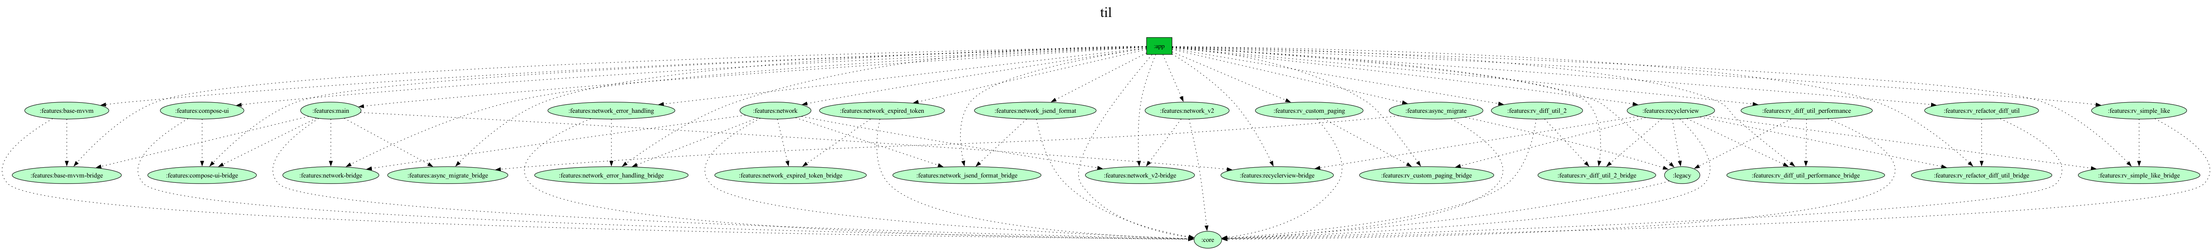
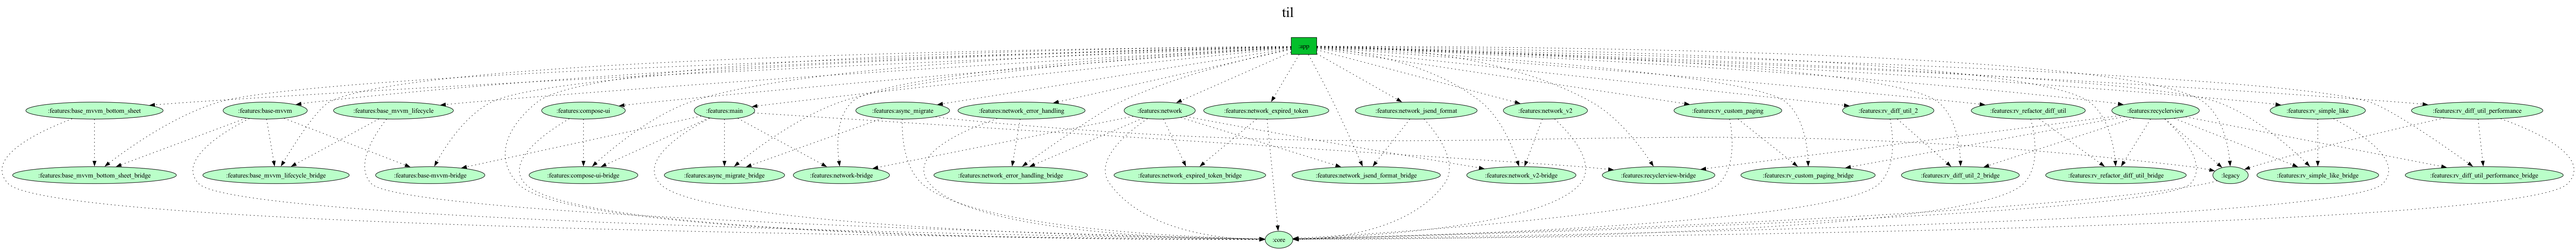
feat: Base MVVM BottomSheet Feature 추가 - BottomSheet FullHeight 함수 추가

diff --git a/core/src/main/java/com/hmju/core/ui/base/BaseSharedBottomSheetDialog.kt b/core/src/main/java/com/hmju/core/ui/base/BaseSharedBottomSheetDialog.kt
@@ -1,5 +1,6 @@
 package com.hmju.core.ui.base
 
+import android.content.DialogInterface
 import android.content.Intent
 import android.os.Bundle
 import android.view.LayoutInflater
@@ -7,12 +8,15 @@ import android.view.View
 import android.view.ViewGroup
 import androidx.annotation.CallSuper
 import androidx.annotation.LayoutRes
+import androidx.core.view.updateLayoutParams
 import androidx.databinding.DataBindingUtil
 import androidx.databinding.ViewDataBinding
 import androidx.fragment.app.FragmentManager
 import androidx.lifecycle.ViewModelProvider
 import androidx.lifecycle.get
 import androidx.lifecycle.viewmodel.CreationExtras
+import com.google.android.material.bottomsheet.BottomSheetBehavior
+import com.google.android.material.bottomsheet.BottomSheetDialog
 import com.google.android.material.bottomsheet.BottomSheetDialogFragment
 import timber.log.Timber
 
@@ -64,9 +68,8 @@ abstract class BaseSharedBottomSheetDialog<T : ViewDataBinding, VM : BottomSheet
             }
         }
 
-        dialog?.setOnDismissListener {
-            dismiss()
-        }
+        dialog?.setOnDismissListener { dismiss() }
+        dialog?.setOnShowListener { onShow(it) }
     }
 
     @CallSuper
@@ -103,6 +106,13 @@ abstract class BaseSharedBottomSheetDialog<T : ViewDataBinding, VM : BottomSheet
     }
 
     /**
+     * BottomSheet Show 상태시 호출되는 함수
+     */
+    @CallSuper
+    open fun onShow(dialogInterface: DialogInterface) {
+    }
+
+    /**
      * Tag 값은 리터널 상수로 처리해야 합니다.
      * @param tag Tag
      */
@@ -126,5 +136,27 @@ abstract class BaseSharedBottomSheetDialog<T : ViewDataBinding, VM : BottomSheet
             defaultViewModelProviderFactory,
             extrasProducer?.invoke() ?: this.defaultViewModelCreationExtras
         ).get()
+    }
+
+    /**
+     * BottomSheet 전체 화면 처리하는 함수
+     *
+     * [setFullHeightBottomSheet] 함수를 사용하면 됩니다.
+     */
+    protected fun setFullHeightBottomSheet(
+        dialogInterface: DialogInterface
+    ): BottomSheetBehavior<View>? {
+        return try {
+            val bottomSheet = dialogInterface as BottomSheetDialog
+            val view = bottomSheet.findViewById<View>(
+                com.google.android.material.R.id.design_bottom_sheet
+            ) as View
+            view.updateLayoutParams<ViewGroup.LayoutParams> {
+                height = ViewGroup.LayoutParams.MATCH_PARENT
+            }
+            BottomSheetBehavior.from(view)
+        } catch (ex: Exception) {
+            null
+        }
     }
 }

diff --git a/core/src/main/java/com/hmju/core/ui/base/BaseBottomSheetDialog.kt b/core/src/main/java/com/hmju/core/ui/base/BaseBottomSheetDialog.kt
@@ -1,5 +1,6 @@
 package com.hmju.core.ui.base
 
+import android.content.DialogInterface
 import android.content.Intent
 import android.os.Bundle
 import android.view.LayoutInflater
@@ -7,12 +8,15 @@ import android.view.View
 import android.view.ViewGroup
 import androidx.annotation.CallSuper
 import androidx.annotation.LayoutRes
+import androidx.core.view.updateLayoutParams
 import androidx.databinding.DataBindingUtil
 import androidx.databinding.ViewDataBinding
 import androidx.fragment.app.FragmentManager
 import androidx.lifecycle.ViewModelProvider
 import androidx.lifecycle.get
 import androidx.lifecycle.viewmodel.CreationExtras
+import com.google.android.material.bottomsheet.BottomSheetBehavior
+import com.google.android.material.bottomsheet.BottomSheetDialog
 import com.google.android.material.bottomsheet.BottomSheetDialogFragment
 import timber.log.Timber
 
@@ -66,6 +70,8 @@ abstract class BaseBottomSheetDialog<T : ViewDataBinding, VM : BottomSheetViewMo
         dialog?.setOnDismissListener {
             dismiss()
         }
+
+        dialog?.setOnShowListener { onShow(it) }
     }
 
     @CallSuper
@@ -101,6 +107,13 @@ abstract class BaseBottomSheetDialog<T : ViewDataBinding, VM : BottomSheetViewMo
     }
 
     /**
+     * BottomSheet Show 상태시 호출되는 함수
+     */
+    @CallSuper
+    open fun onShow(dialogInterface: DialogInterface) {
+    }
+
+    /**
      * Tag 값은 리터널 상수로 처리해야 합니다.
      * @param tag Tag
      */
@@ -124,5 +137,27 @@ abstract class BaseBottomSheetDialog<T : ViewDataBinding, VM : BottomSheetViewMo
             defaultViewModelProviderFactory,
             extrasProducer?.invoke() ?: this.defaultViewModelCreationExtras
         ).get()
+    }
+
+    /**
+     * BottomSheet 전체 화면 처리하는 함수
+     *
+     * [setFullHeightBottomSheet] 함수를 사용하면 됩니다.
+     */
+    protected fun setFullHeightBottomSheet(
+        dialogInterface: DialogInterface
+    ): BottomSheetBehavior<View>? {
+        return try {
+            val bottomSheet = dialogInterface as BottomSheetDialog
+            val view = bottomSheet.findViewById<View>(
+                com.google.android.material.R.id.design_bottom_sheet
+            ) as View
+            view.updateLayoutParams<ViewGroup.LayoutParams> {
+                height = ViewGroup.LayoutParams.MATCH_PARENT
+            }
+            BottomSheetBehavior.from(view)
+        } catch (ex: Exception) {
+            null
+        }
     }
 }

diff --git a/features/base_mvvm_bottom_sheet/src/main/java/com/features/base_mvvm_bottom_sheet/ui/RefactorBottomSheetDialog.kt b/features/base_mvvm_bottom_sheet/src/main/java/com/features/base_mvvm_bottom_sheet/ui/RefactorBottomSheetDialog.kt
@@ -1,5 +1,6 @@
 package com.features.base_mvvm_bottom_sheet.ui
 
+import android.content.DialogInterface
 import android.os.Bundle
 import android.view.View
 import androidx.fragment.app.DialogFragment
@@ -8,6 +9,7 @@ import androidx.viewpager2.adapter.FragmentStateAdapter
 import com.features.base_mvvm_bottom_sheet.BR
 import com.features.base_mvvm_bottom_sheet.R
 import com.features.base_mvvm_bottom_sheet.databinding.DRefactorBottomSheetBinding
+import com.google.android.material.bottomsheet.BottomSheetBehavior
 import com.hmju.core.ui.base.BaseBottomSheetDialog
 import dagger.hilt.android.AndroidEntryPoint
 import timber.log.Timber
@@ -31,11 +33,17 @@ internal class RefactorBottomSheetDialog :
         setStyle(DialogFragment.STYLE_NORMAL, com.hmju.core.R.style.BottomSheetDialog)
     }
 
+    override fun onShow(dialogInterface: DialogInterface) {
+        super.onShow(dialogInterface)
+        val behavior = setFullHeightBottomSheet(dialogInterface)
+        behavior?.state = BottomSheetBehavior.STATE_EXPANDED
+        behavior?.skipCollapsed = false
+        behavior?.isDraggable = true
+    }
+
     override fun onViewCreated(view: View, savedInstanceState: Bundle?) {
         super.onViewCreated(view, savedInstanceState)
-        Timber.d("Dialog $viewModel")
         with(binding) {
-            vp.offscreenPageLimit = 2
             vp.isSaveEnabled = false
             val adapter = PagerAdapter(this@RefactorBottomSheetDialog)
             vp.adapter = adapter

diff --git a/features/base_mvvm_bottom_sheet/src/main/java/com/features/base_mvvm_bottom_sheet/ui/RefactorSharedBottomSheetDialog.kt b/features/base_mvvm_bottom_sheet/src/main/java/com/features/base_mvvm_bottom_sheet/ui/RefactorSharedBottomSheetDialog.kt
@@ -1,5 +1,6 @@
 package com.features.base_mvvm_bottom_sheet.ui
 
+import android.content.DialogInterface
 import android.os.Bundle
 import android.view.View
 import androidx.fragment.app.DialogFragment
@@ -8,6 +9,7 @@ import androidx.viewpager2.adapter.FragmentStateAdapter
 import com.features.base_mvvm_bottom_sheet.R
 import com.features.base_mvvm_bottom_sheet.BR
 import com.features.base_mvvm_bottom_sheet.databinding.DRefactorBottomSheetBinding
+import com.google.android.material.bottomsheet.BottomSheetBehavior
 import com.hmju.core.ui.base.BaseSharedBottomSheetDialog
 import dagger.hilt.android.AndroidEntryPoint
 import timber.log.Timber
@@ -29,6 +31,14 @@ internal class RefactorSharedBottomSheetDialog
         viewModel = initViewModel()
         super.onCreate(savedInstanceState)
         setStyle(DialogFragment.STYLE_NORMAL, com.hmju.core.R.style.BottomSheetDialog)
+    }
+
+    override fun onShow(dialogInterface: DialogInterface) {
+        super.onShow(dialogInterface)
+        val behavior = setFullHeightBottomSheet(dialogInterface)
+        behavior?.state = BottomSheetBehavior.STATE_EXPANDED
+        behavior?.skipCollapsed = false
+        behavior?.isDraggable = true
     }
 
     override fun onViewCreated(view: View, savedInstanceState: Bundle?) {
